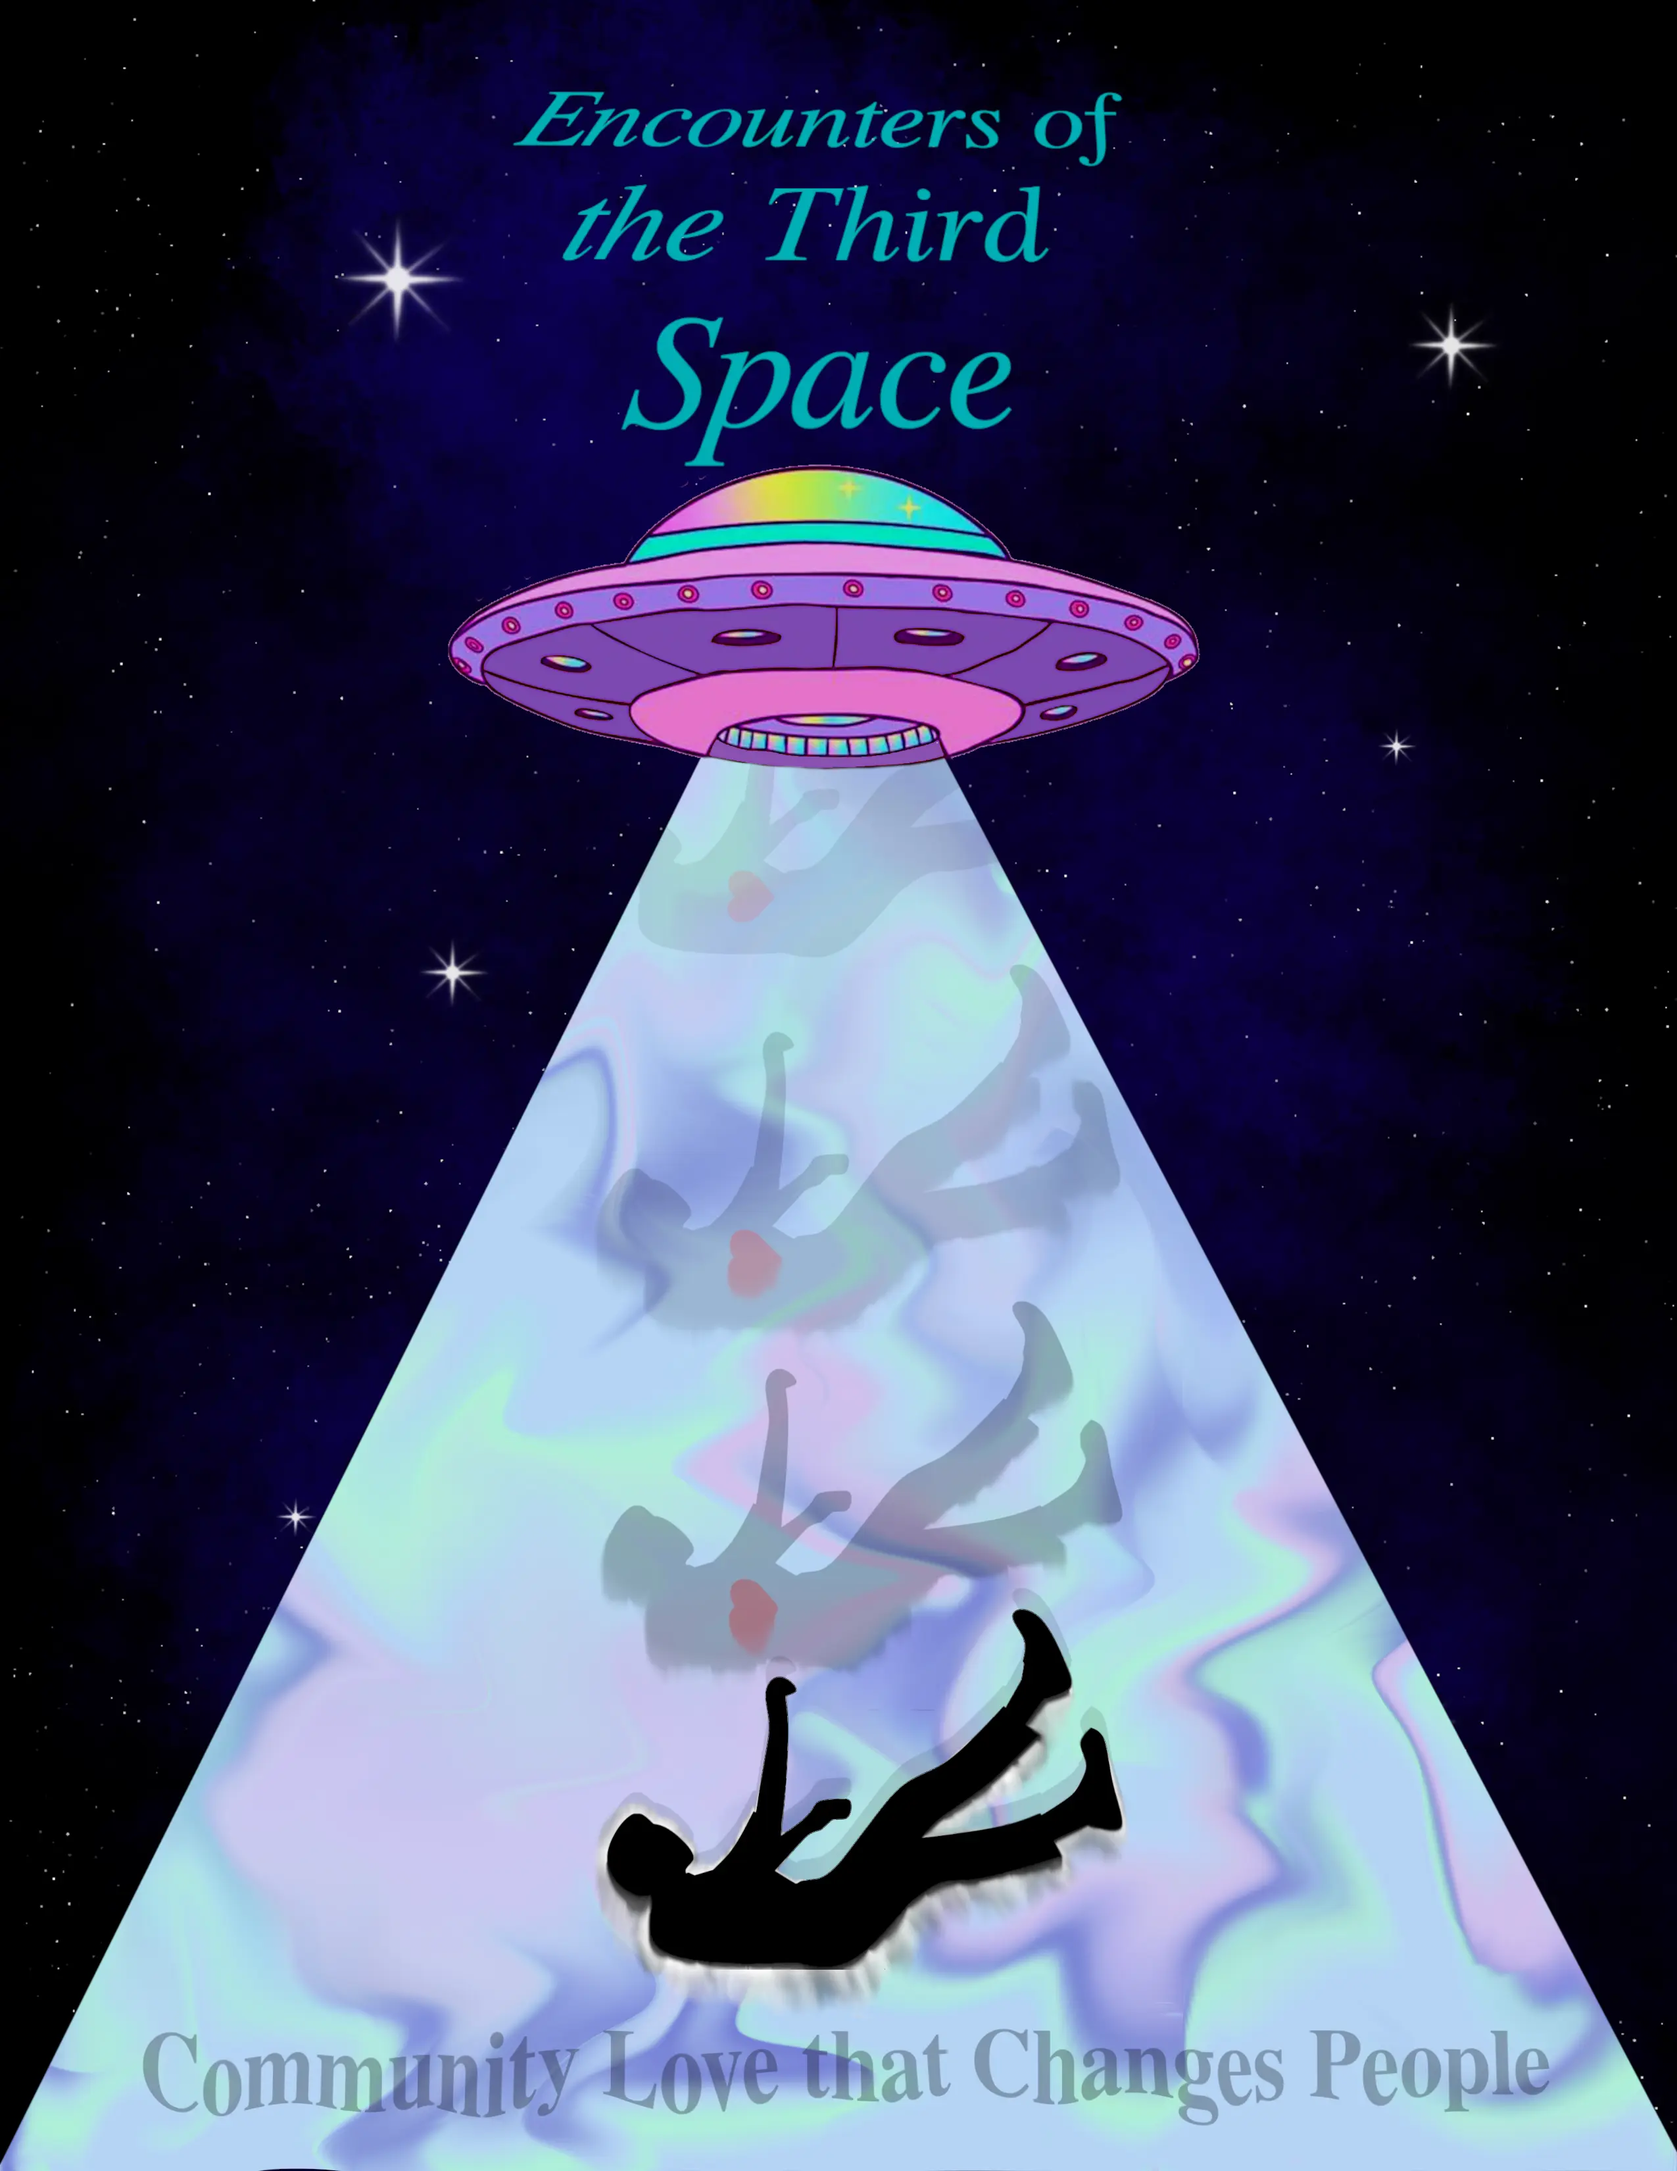
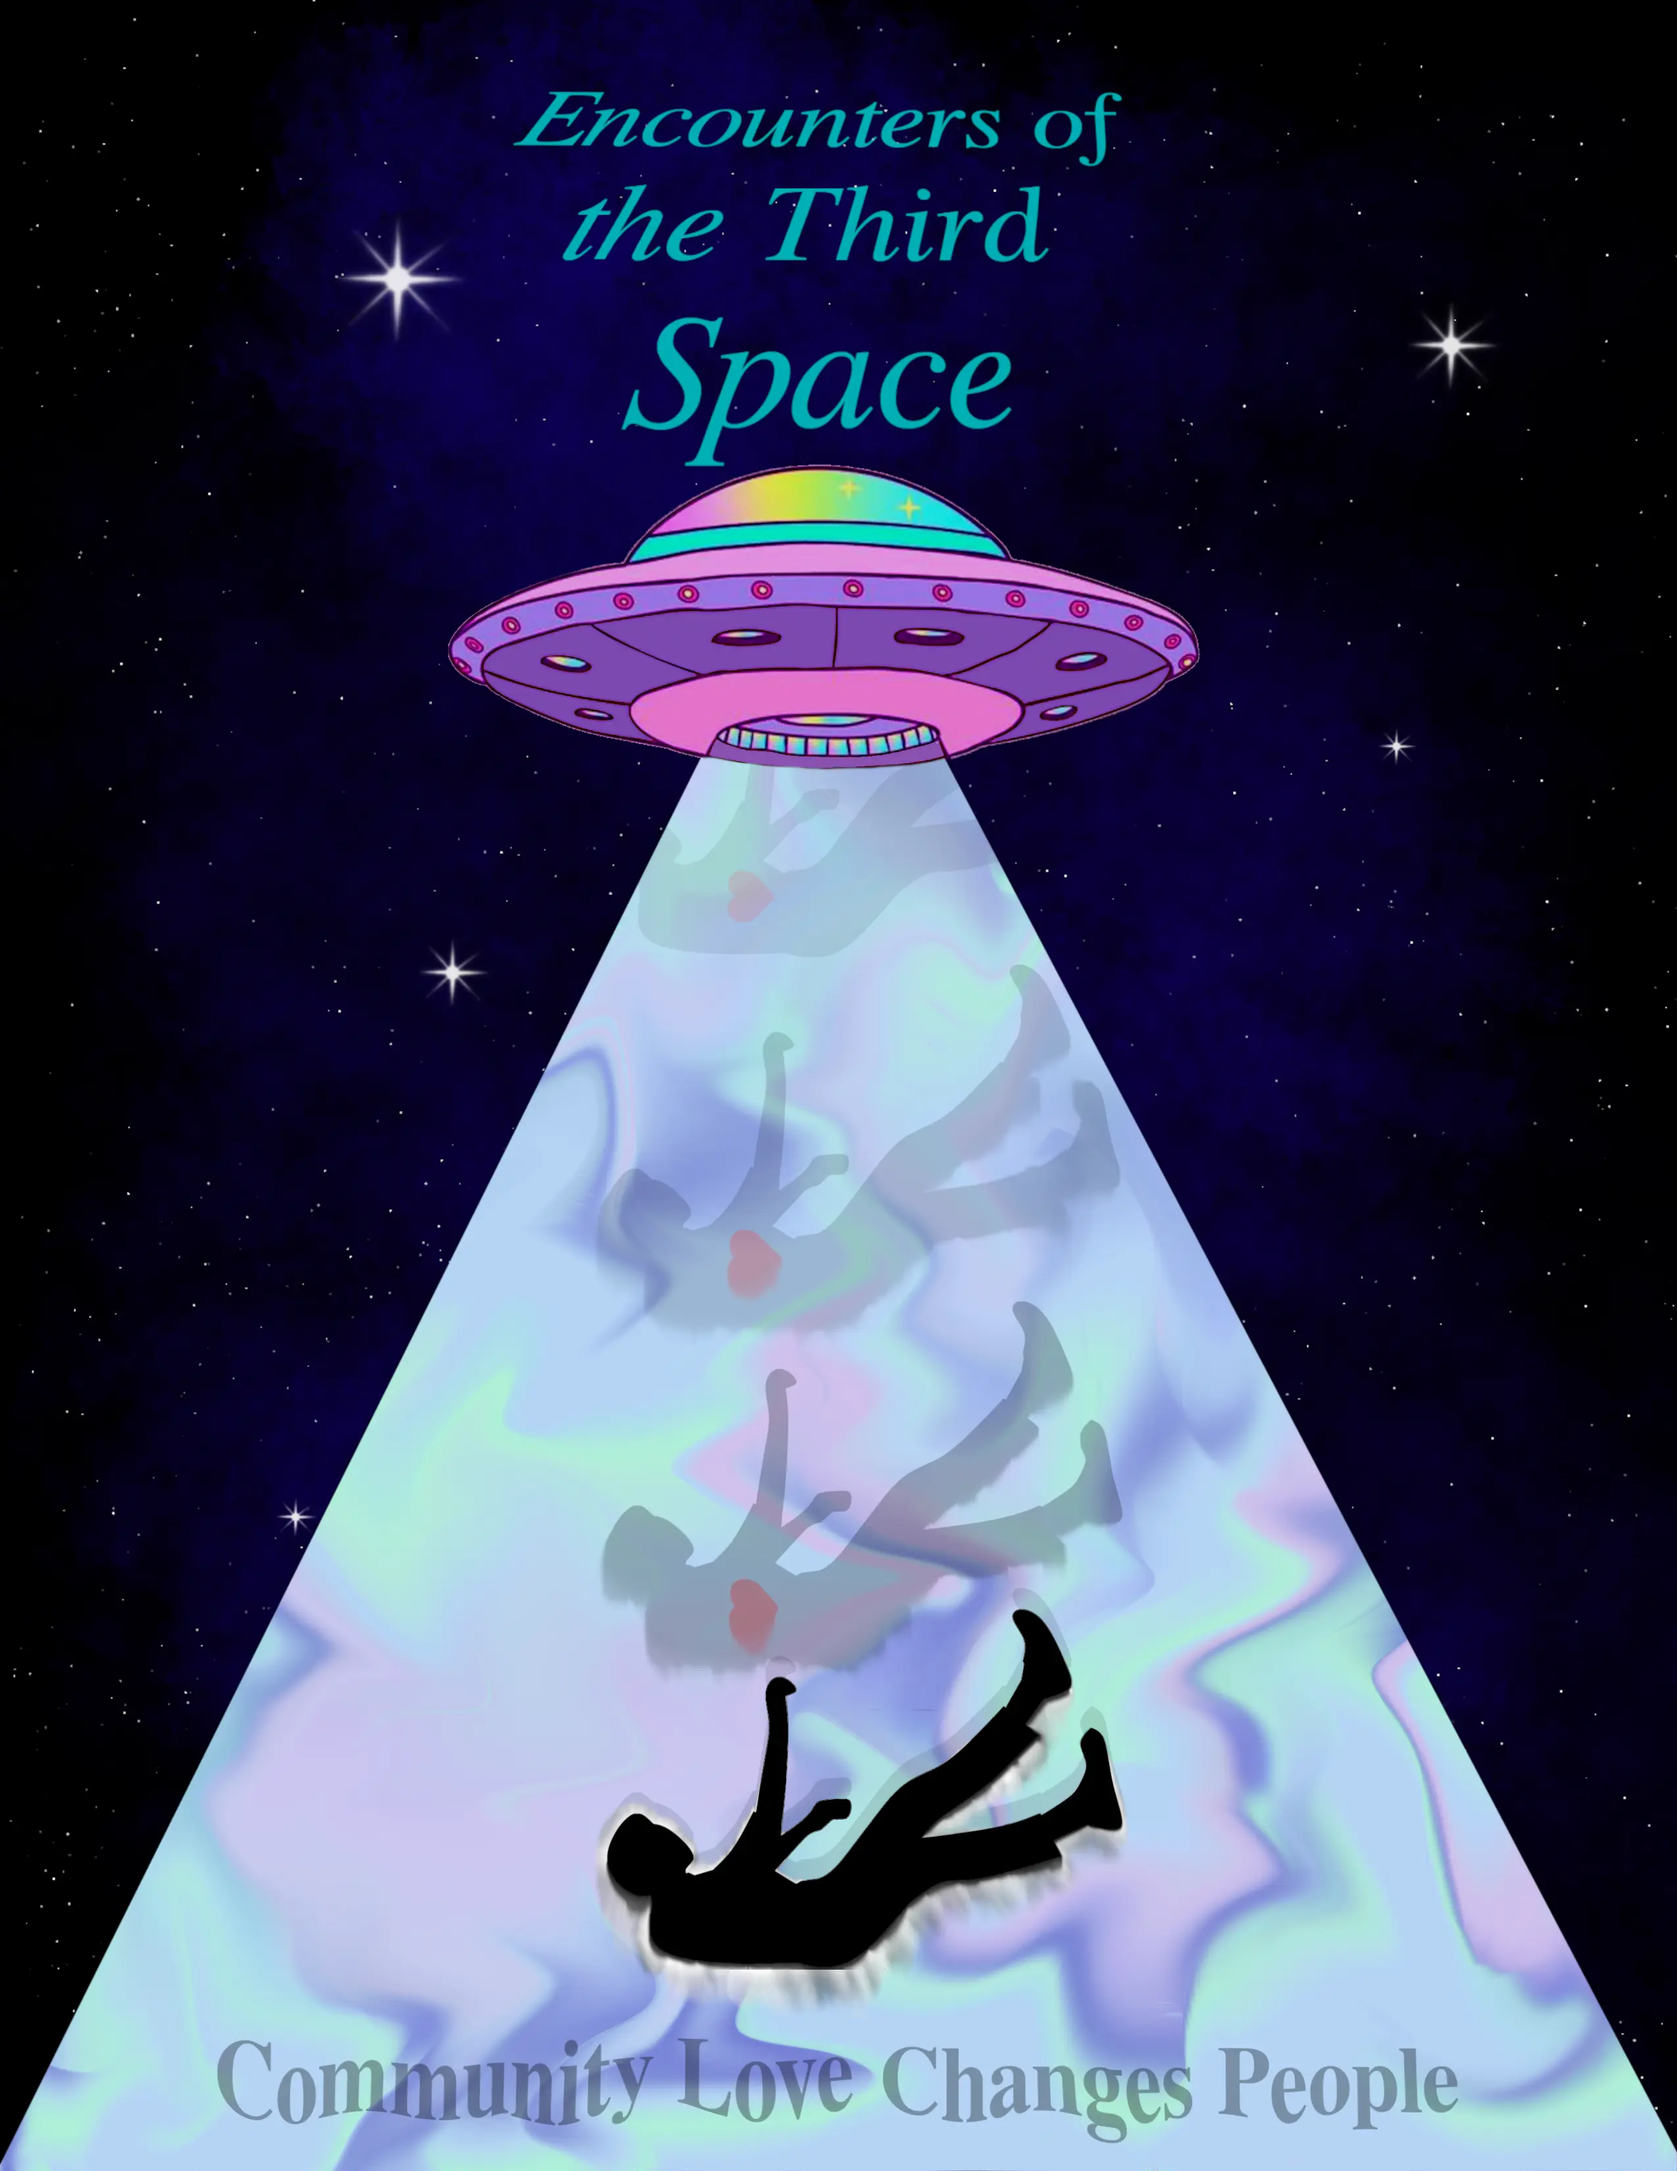
Refactored zine object, and changed some text around

Changed region(s): [[0.062, 0.9364, 0.9294, 1.0]]

diff --git a/src/routes/zines/zine.ts b/src/routes/zines/zine.ts
@@ -1,26 +1,52 @@
 
 export const dirPrefix = "/zines"
-export const zines = [
+
+export interface zineMetaData {
+    zineCover: string; 
+    title: string; 
+    name: string; 
+    description: string; 
+    redirect: string; 
+    backgroundImage: string;
+    pdfPath: string;
+}
+
+const thirdSpaceDir = dirPrefix + "/Third Space"
+const pandoraDir = dirPrefix + "/pandora"
+const emotionlessDir = dirPrefix + "/emotionless"
+
+export const zines: {[key: string]: zineMetaData} = {
+    thirdSpace:
     {
-        zineCover: dirPrefix + "/Expressionless Cover.webp",
+        zineCover: thirdSpaceDir + "/Third Space.webp",
+        title: "",
+        name: "Third Space",
+        description: `My most recent and ambitious Zine that discusses the current loneliness epidemic 
+        within America, land use, and predatory technology.`,
+        redirect: thirdSpaceDir,
+        backgroundImage: "/zines/pandora/back.jpg",
+        pdfPath: thirdSpaceDir + "/Third Space.pdf"
+    },
+    pandora:
+    {
+        zineCover: pandoraDir + "/Pandora_Poster.webp",
+        title: "",
+        name: "pandora",
+        description: "A Zine I started and may never finish focused upon tech and it's affects on different community's.",
+        redirect: pandoraDir,
+        backgroundImage: pandoraDir + "/back.jpg",
+        pdfPath: pandoraDir + "/pandora.pdf"
+    },
+    emotionless:
+    {
+        zineCover: emotionlessDir + "/Expressionless Cover.webp",
         title: "Expressionless",
         name: "emotionless",
-        description: "My first ever self made Zine. It's unstructured and has a loose theme of expressing emotions and growth. Deals with the problems that arise after graduation.",
-        redirect: dirPrefix + "/emotionless",
-        backgroundImage: "/zines/emotionless/back.jpg"
-    },
-    {
-        zineCover: dirPrefix + "/Third Space/Third Space.webp",
-        name: "Third Space",
-        description: "Another Zine I'm working on that discusses the current loneliness epidemic within America and how third spaces come into play alongside technology.",
-        redirect: dirPrefix + "/Third Space",
-        backgroundImage: "/zines/pandora/back.jpg"
-    },
-    {
-        zineCover: dirPrefix + "/pandora/Pandora_Poster.webp",
-        name: "pandora",
-        description: "Current Zine I'm working on focused upon tech and it's affects on different community's.",
-        redirect: dirPrefix + "/pandora",
-        backgroundImage: "/zines/pandora/back.jpg"
+        description: `My first ever self made Zine. 
+        It's unstructured and has a loose theme of expressing emotions and growth. 
+        Deals with the problems that arise after graduation.`,
+        redirect: emotionlessDir,
+        backgroundImage: emotionlessDir + "/back.jpg",
+        pdfPath: emotionlessDir + "/emotionless.pdf"
     }
-]
+}

diff --git a/src/routes/zines/displayZine.svelte b/src/routes/zines/displayZine.svelte
@@ -1,17 +1,17 @@
 <script lang="ts">
-    import { zines } from "./zine";
-    export let zineIndex: number;
+    import type { zineMetaData } from "./zine";
+    export let zine: zineMetaData;
 </script>
 
 
 
 <div style="text-align: center; margin-left:auto; margin-right:auto; padding-top: 7%;
-background-image:url('/zines/{zines[zineIndex].name}/back.jpg');
+background-image:url('{zine.redirect}/back.jpg');
 ">
     <object
         class="pdf-object"
         type="application/pdf"
-        data="/zines/{zines[zineIndex].name}/{zines[zineIndex].name}.pdf"
+        data="{zine.pdfPath}"
         aria-label="Zine"
     >
     </object>

diff --git a/src/routes/zines/zines.svelte b/src/routes/zines/zines.svelte
@@ -1,13 +1,13 @@
 <script lang="ts">
     import { zines } from "./zine";
-
+    let zinesKeyValueArray = Object.entries(zines);
 </script>
 
 
 <div id="zines">
-    {#each zines as zine, index}
+    {#each zinesKeyValueArray as [key, zine], index}
         <div class="zine-container" id="{
-            zines.length === (1 + index) ? "last-zine" : "zine-" + index
+            zinesKeyValueArray.length === (1 + index) ? "last-zine" : "zine-" + index
         }"
         on:mousedown={(e) => {
             location.href = zine.redirect

diff --git a/src/routes/zines/emotionless/+page.svelte b/src/routes/zines/emotionless/+page.svelte
@@ -13,7 +13,7 @@
  height:100%; width: 100%;
  ">
     <Menu email="" songName=""></Menu>
-    <DisplayZine zineIndex={0}></DisplayZine>
+    <DisplayZine zine={zines.emotionless}></DisplayZine>
 </div>
 
 

diff --git a/src/routes/zines/Third Space/+page.svelte b/src/routes/zines/Third Space/+page.svelte
@@ -13,7 +13,7 @@
  height:100%; width: 100%;
  ">
     <Menu email="" songName=""></Menu>
-    <DisplayZine zineIndex={1}></DisplayZine>
+    <DisplayZine zine={zines.thirdSpace}></DisplayZine>
 </div>
 
 

diff --git a/src/routes/zines/pandora/+page.svelte b/src/routes/zines/pandora/+page.svelte
@@ -13,7 +13,7 @@
  height:100%; width: 100%;
  ">
     <Menu email="" songName=""></Menu>
-    <DisplayZine zineIndex={2}></DisplayZine>
+    <DisplayZine zine={zines.pandora}></DisplayZine>
 </div>
 
 
